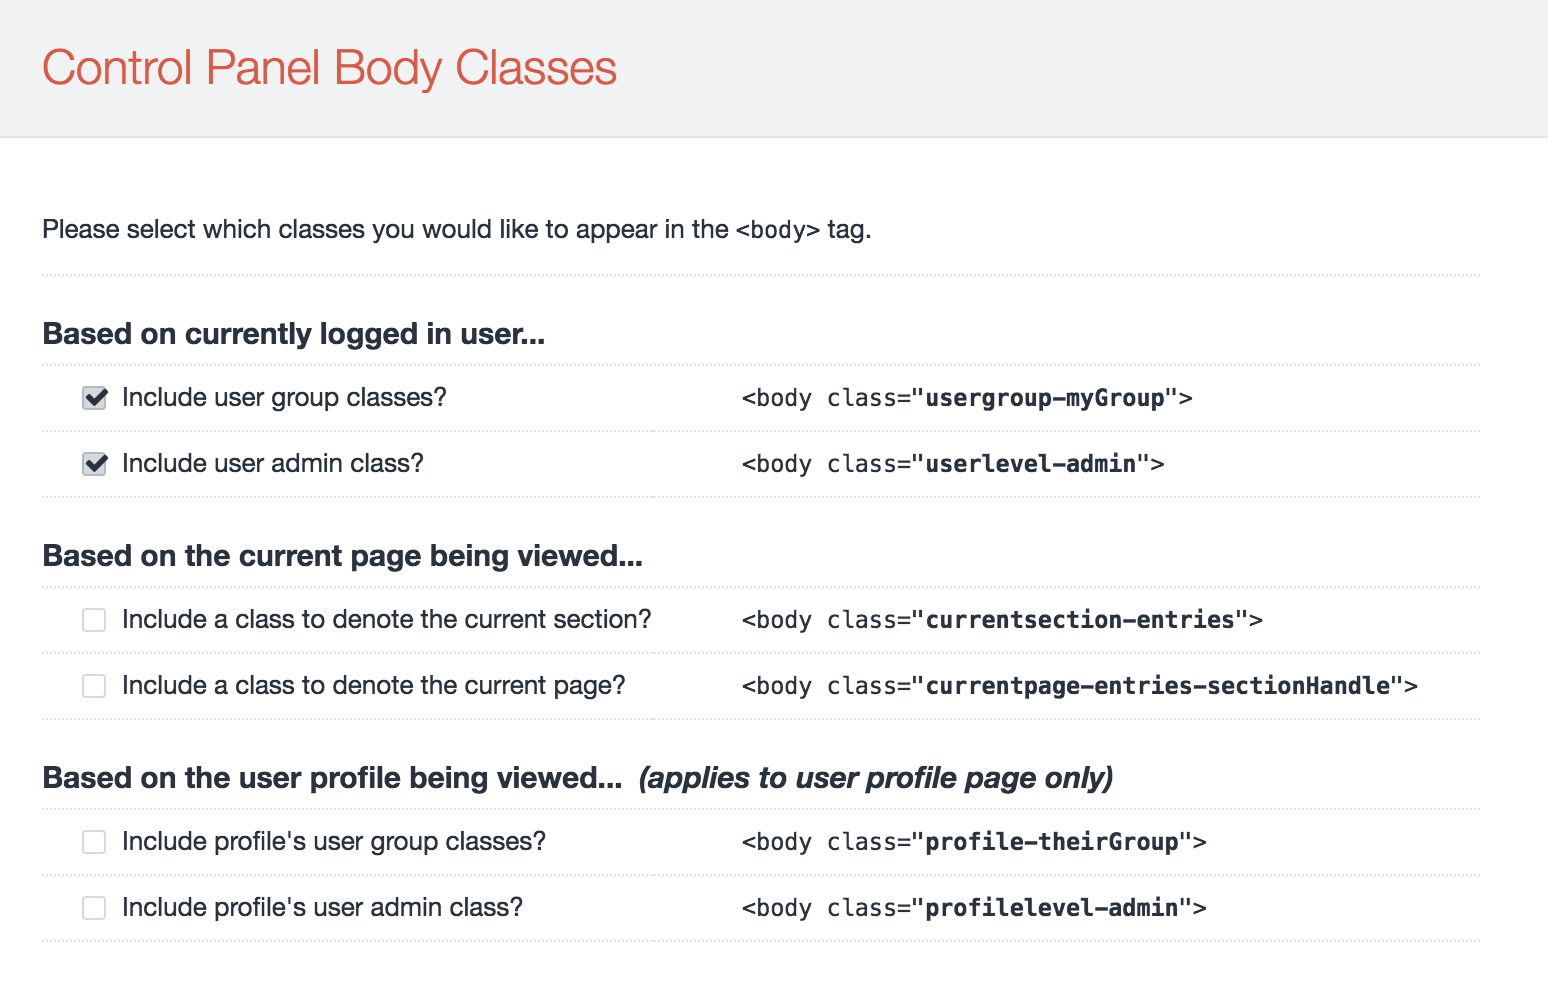
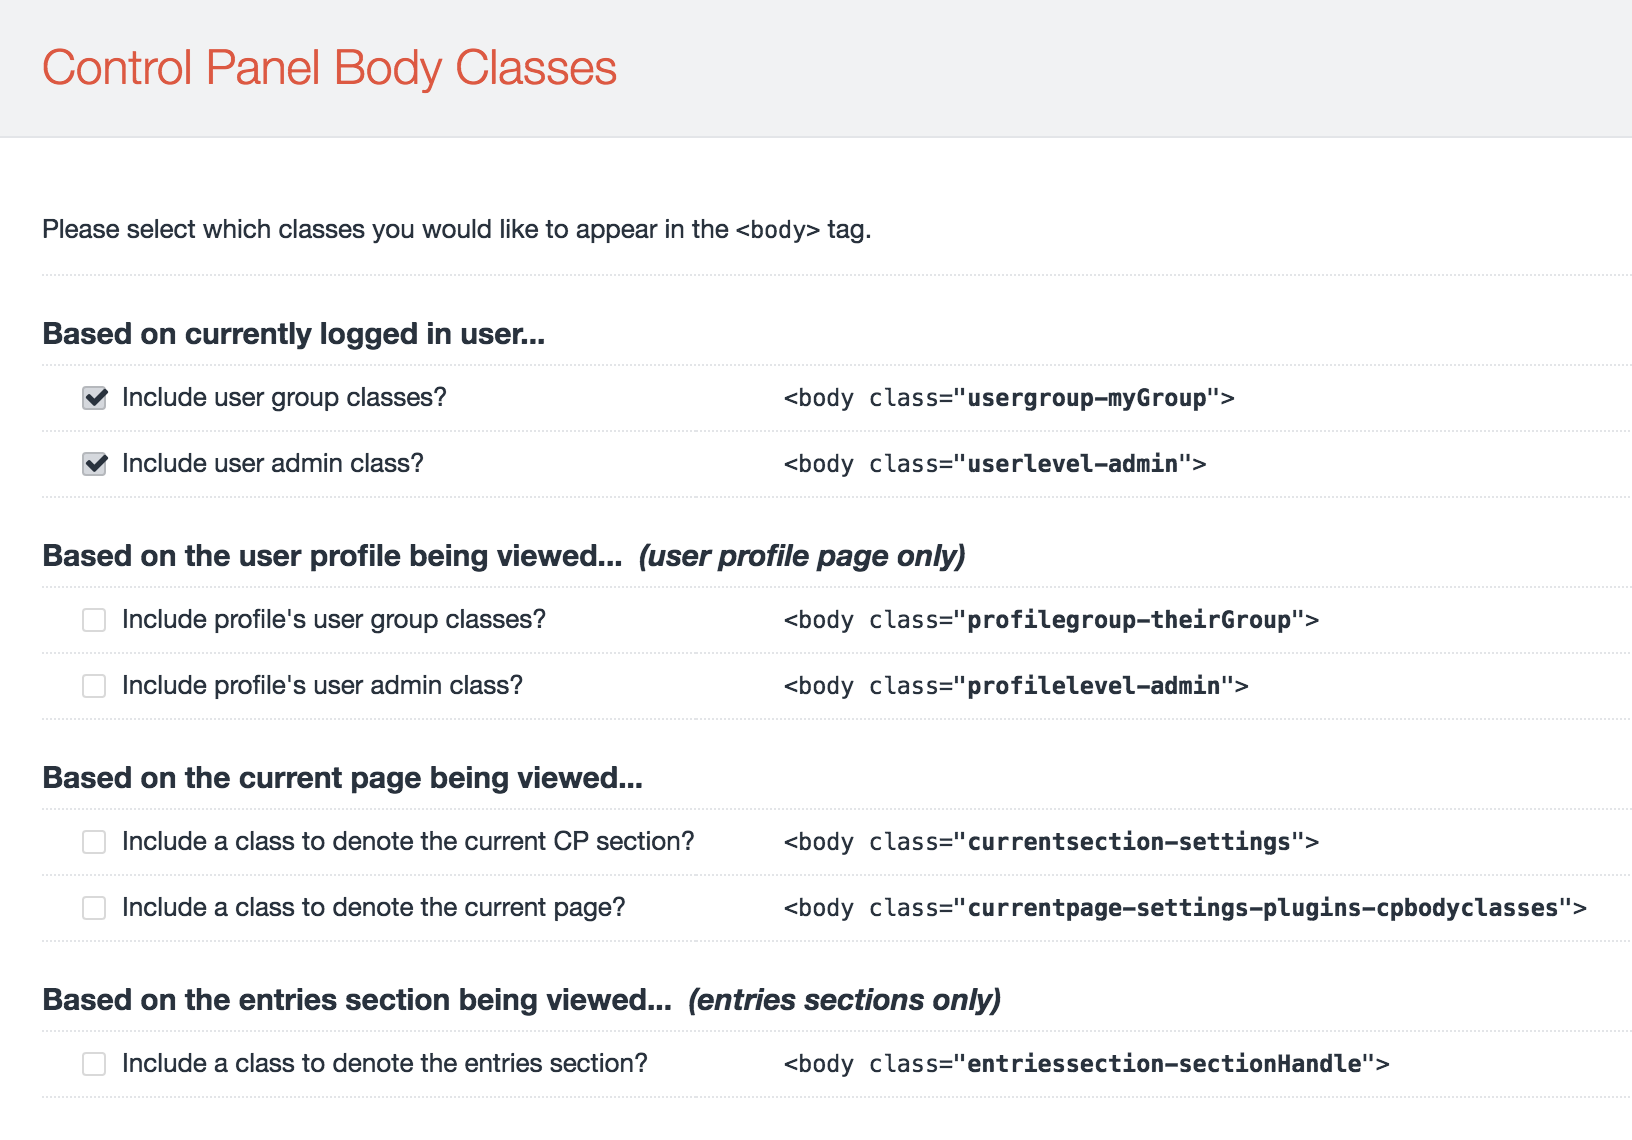
(v1.2.1) Added entries section classes

diff --git a/cpbodyclasses/templates/_settings.html b/cpbodyclasses/templates/_settings.html
@@ -39,40 +39,7 @@
 		</tr>
 		<tr>
 			<td colspan="2">
-				<h2>Based on the current page being viewed...</h2>
-			</td>
-		</tr>
-		<tr>
-			<td>
-				{{ forms.checkbox({
-					label: "Include a class to denote the current section?"|t,
-					id: 'showCurrentSection',
-					name: 'showCurrentSection',
-					checked: settings.showCurrentSection,
-					errors: settings.getErrors('showCurrentSection')
-				}) }}
-			</td>
-			<td>
-				<code>&lt;body class="<strong>currentsection-entries</strong>"&gt;</code>
-			</td>
-		</tr>
-		<tr>
-			<td>
-				{{ forms.checkbox({
-					label: "Include a class to denote the current page?"|t,
-					id: 'showCurrentPage',
-					name: 'showCurrentPage',
-					checked: settings.showCurrentPage,
-					errors: settings.getErrors('showCurrentPage')
-				}) }}
-			</td>
-			<td>
-				<code>&lt;body class="<strong>currentpage-entries-sectionHandle</strong>"&gt;</code>
-			</td>
-		</tr>
-		<tr>
-			<td colspan="2">
-				<h2>Based on the user profile being viewed... &nbsp;<em>(applies to user profile page only)</em></h2>
+				<h2>Based on the user profile being viewed... &nbsp;<em>(user profile page only)</em></h2>
 			</td>
 		</tr>
 		<tr>
@@ -86,7 +53,7 @@
 				}) }}
 			</td>
 			<td>
-				<code>&lt;body class="<strong>profile-theirGroup</strong>"&gt;</code>
+				<code>&lt;body class="<strong>profilegroup-theirGroup</strong>"&gt;</code>
 			</td>
 		</tr>
 		<tr>
@@ -101,6 +68,58 @@
 			</td>
 			<td>
 				<code>&lt;body class="<strong>profilelevel-admin</strong>"&gt;</code>
+			</td>
+		</tr>
+		<tr>
+			<td colspan="2">
+				<h2>Based on the current page being viewed...</h2>
+			</td>
+		</tr>
+		<tr>
+			<td>
+				{{ forms.checkbox({
+					label: "Include a class to denote the current CP section?"|t,
+					id: 'showCurrentSection',
+					name: 'showCurrentSection',
+					checked: settings.showCurrentSection,
+					errors: settings.getErrors('showCurrentSection')
+				}) }}
+			</td>
+			<td>
+				<code>&lt;body class="<strong>currentsection-settings</strong>"&gt;</code>
+			</td>
+		</tr>
+		<tr>
+			<td>
+				{{ forms.checkbox({
+					label: "Include a class to denote the current page?"|t,
+					id: 'showCurrentPage',
+					name: 'showCurrentPage',
+					checked: settings.showCurrentPage,
+					errors: settings.getErrors('showCurrentPage')
+				}) }}
+			</td>
+			<td>
+				<code>&lt;body class="<strong>currentpage-settings-plugins-cpbodyclasses</strong>"&gt;</code>
+			</td>
+		</tr>
+		<tr>
+			<td colspan="2">
+				<h2>Based on the entries section being viewed... &nbsp;<em>(entries sections only)</em></h2>
+			</td>
+		</tr>
+		<tr>
+			<td>
+				{{ forms.checkbox({
+					label: "Include a class to denote the entries section?"|t,
+					id: 'showEntriesSection',
+					name: 'showEntriesSection',
+					checked: settings.showEntriesSection,
+					errors: settings.getErrors('showEntriesSection')
+				}) }}
+			</td>
+			<td>
+				<code>&lt;body class="<strong>entriessection-sectionHandle</strong>"&gt;</code>
 			</td>
 		</tr>
 	</tbody>

diff --git a/cpbodyclasses/services/CpBodyClassesService.php b/cpbodyclasses/services/CpBodyClassesService.php
@@ -24,7 +24,25 @@ class CpBodyClassesService extends BaseApplicationComponent
 		$this->_addUserAdminClass('userlevel', $user);
 	}
 
-	// Current section
+	// Profile's user group
+	public function classProfileUserGroups()
+	{
+		// Get user in profile
+		$user = $this->_getProfileUser();
+		// Add user group classes
+		$this->_addUserGroupClasses('profilegroup', $user);
+	}
+
+	// Profile's user admin
+	public function classProfileUserAdmin()
+	{
+		// Get user in profile
+		$user = $this->_getProfileUser();
+		// Add admin class
+		$this->_addUserAdminClass('profilelevel', $user);
+	}
+
+	// Current CP section
 	public function classCurrentSection()
 	{
 		// Get first segment
@@ -45,22 +63,16 @@ class CpBodyClassesService extends BaseApplicationComponent
 		$this->_addClass('currentpage', $page);
 	}
 
-	// Profile's user group
-	public function classProfileUserGroups()
+	// Entries section
+	public function classEntriesSection()
 	{
-		// Get user in profile
-		$user = $this->_getProfileUser();
-		// Add user group classes
-		$this->_addUserGroupClasses('profile', $user);
-	}
-
-	// Profile's user admin
-	public function classProfileUserAdmin()
-	{
-		// Get user in profile
-		$user = $this->_getProfileUser();
-		// Add admin class
-		$this->_addUserAdminClass('profilelevel', $user);
+		// Get URL segments
+		$section = craft()->request->getSegment(1);
+		$channel = craft()->request->getSegment(2);
+		// If entries section and specific channel
+		if ('entries' == $section && $channel) {
+			$this->_addClass('entriessection', $channel);
+		}
 	}
 
 	// ======================================================================== //
@@ -95,11 +107,16 @@ class CpBodyClassesService extends BaseApplicationComponent
 	private function _getProfileUser()
 	{
 		// Get URL segments
-		$page   = craft()->request->getSegment(1);
-		$userId = craft()->request->getSegment(2);
+		$section = craft()->request->getSegment(1);
+		$userId  = craft()->request->getSegment(2);
+		// Determine whether page is a profile
+		$profile   = (('users' == $section) && is_numeric($userId));
+		$myaccount = ('myaccount' == $section);
 		// Return profile user (if valid)
-		if (('users' == $page) && is_numeric($userId)) {
+		if ($profile) {
 			return craft()->users->getUserById($userId);
+		} else if ($myaccount) {
+			return craft()->userSession->getUser();
 		} else {
 			return false;
 		}

diff --git a/cpbodyclasses/CpBodyClassesPlugin.php b/cpbodyclasses/CpBodyClassesPlugin.php
@@ -19,10 +19,11 @@ class CpBodyClassesPlugin extends BasePlugin
 			// Add all requested groups
 			if ($s->showUserGroups)        {$c->classUserGroups();}
 			if ($s->showUserAdmin)         {$c->classUserAdmin();}
-			if ($s->showCurrentSection)    {$c->classCurrentSection();}
-			if ($s->showCurrentPage)       {$c->classCurrentPage();}
 			if ($s->showProfileUserGroups) {$c->classProfileUserGroups();}
 			if ($s->showProfileUserAdmin)  {$c->classProfileUserAdmin();}
+			if ($s->showCurrentSection)    {$c->classCurrentSection();}
+			if ($s->showCurrentPage)       {$c->classCurrentPage();}
+			if ($s->showEntriesSection)    {$c->classEntriesSection();}
 		}
 
 		// If any body classes have been set
@@ -51,7 +52,7 @@ class CpBodyClassesPlugin extends BasePlugin
 
 	public function getVersion()
 	{
-		return '1.2.0';
+		return '1.2.1';
 	}
 
 	public function getSchemaVersion()
@@ -83,10 +84,11 @@ class CpBodyClassesPlugin extends BasePlugin
 		return array(
 			'showUserGroups'        => array(AttributeType::Bool, 'default' => true),
 			'showUserAdmin'         => array(AttributeType::Bool, 'default' => true),
-			'showCurrentSection'    => array(AttributeType::Bool, 'default' => false),
-			'showCurrentPage'       => array(AttributeType::Bool, 'default' => false),
 			'showProfileUserGroups' => array(AttributeType::Bool, 'default' => false),
 			'showProfileUserAdmin'  => array(AttributeType::Bool, 'default' => false),
+			'showCurrentSection'    => array(AttributeType::Bool, 'default' => false),
+			'showCurrentPage'       => array(AttributeType::Bool, 'default' => false),
+			'showEntriesSection'    => array(AttributeType::Bool, 'default' => false),
 		);
 	}
 
